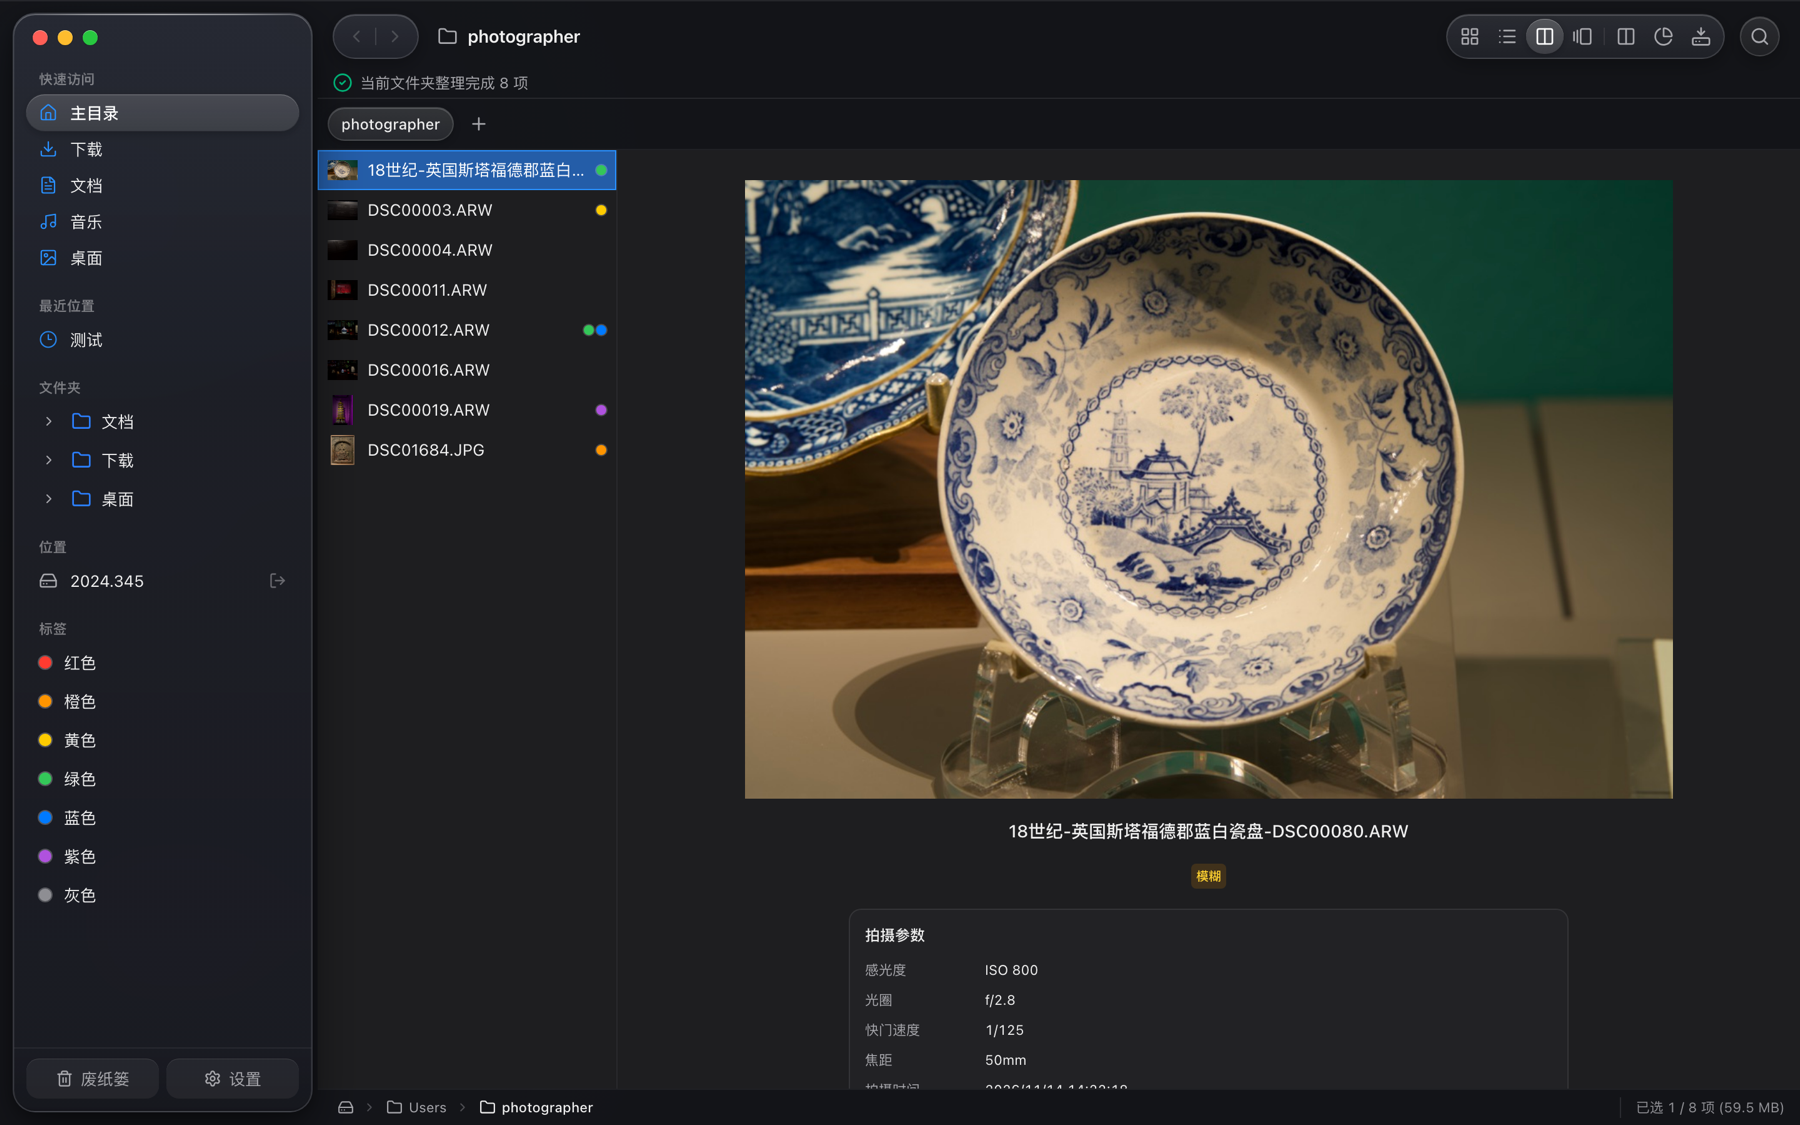
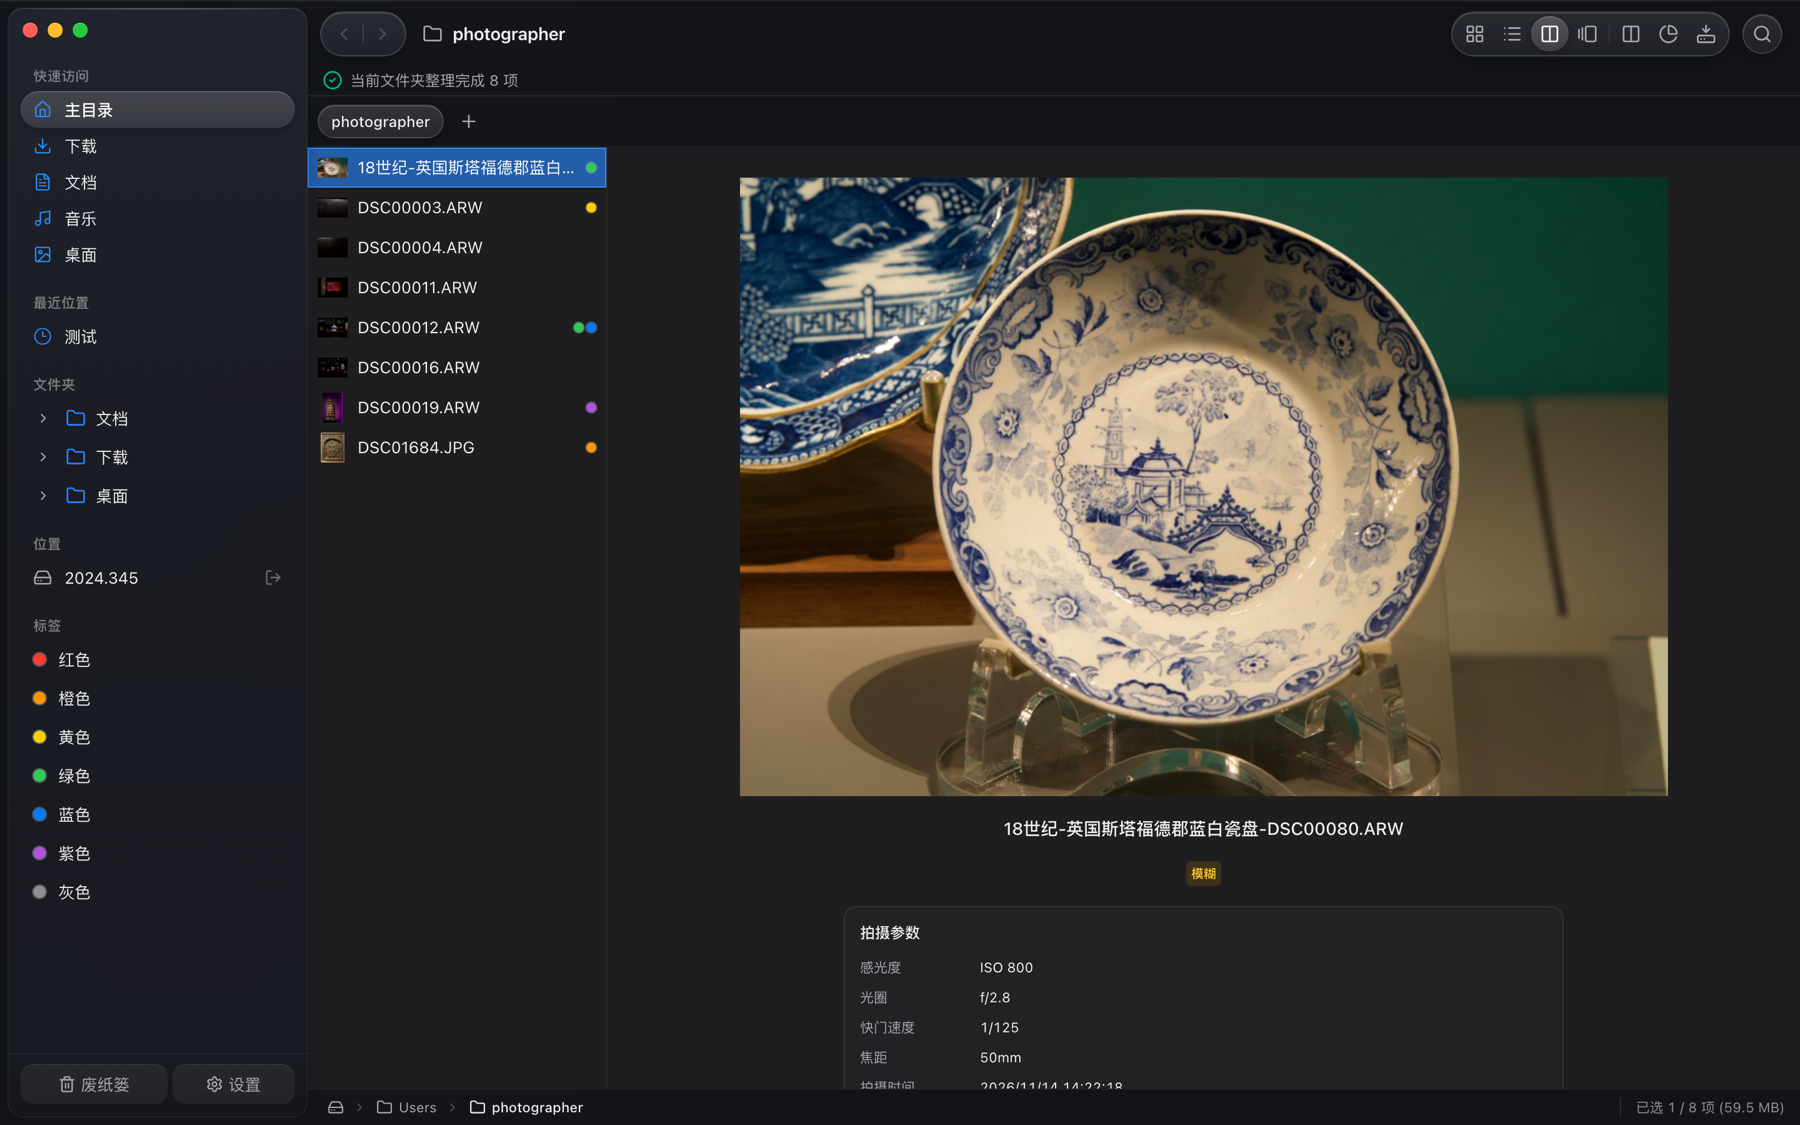
fix(ui): inset macOS traffic lights inside sidebar, soften glass border, and prevent footer text truncation

diff --git a/src/styles/finder.css b/src/styles/finder.css
@@ -95,10 +95,10 @@ button:focus-visible,
 }
 .finder-traffic-region {
   position: absolute;
-  top: 10px;
-  left: 10px;
-  width: 84px;
-  height: 38px;
+  top: 6px;
+  left: 6px;
+  width: 88px;
+  height: 42px;
   z-index: 60;
 }
 .finder-workspace {
@@ -109,59 +109,53 @@ button:focus-visible,
 }
 .finder-sidebar {
   position: relative;
-  margin: 10px 4px 10px 10px;
-  height: calc(100% - 20px);
-  border-radius: 18px;
+  margin: 6px 0 6px 6px;
+  height: calc(100% - 12px);
+  border-radius: 12px;
   overflow: hidden;
   background: linear-gradient(
     180deg,
-    rgb(255 255 255 / 82%) 0%,
-    rgb(246 248 252 / 72%) 55%,
-    rgb(241 244 250 / 78%) 100%
+    rgb(255 255 255 / 78%) 0%,
+    rgb(246 248 252 / 68%) 55%,
+    rgb(241 244 250 / 74%) 100%
   );
-  border: 1px solid rgb(15 23 42 / 7.5%);
+  border: 0.5px solid rgb(15 23 42 / 7%);
   box-shadow:
-    inset 0 1px 0 rgb(255 255 255 / 98%),
-    inset 0 0 0 0.5px rgb(255 255 255 / 80%),
-    inset 0 -1px 0 rgb(15 23 42 / 5%),
-    0 12px 32px rgb(15 23 42 / 10%),
-    0 2px 6px rgb(15 23 42 / 5%);
-  -webkit-backdrop-filter: blur(44px) saturate(1.9);
-  backdrop-filter: blur(44px) saturate(1.9);
+    inset 0 0.5px 0 rgb(255 255 255 / 92%),
+    0 2px 10px rgb(15 23 42 / 6%);
+  -webkit-backdrop-filter: blur(40px) saturate(1.85);
+  backdrop-filter: blur(40px) saturate(1.85);
 }
 .dark .finder-sidebar {
   background: linear-gradient(
     180deg,
-    rgb(58 60 68 / 50%) 0%,
-    rgb(36 37 43 / 58%) 34%,
-    rgb(28 29 35 / 66%) 100%
+    rgb(46 48 54 / 52%) 0%,
+    rgb(32 33 38 / 58%) 40%,
+    rgb(27 28 33 / 64%) 100%
   );
-  border: 1px solid rgb(255 255 255 / 13%);
+  border: 0.5px solid rgb(255 255 255 / 7.5%);
   box-shadow:
-    inset 0 1px 0 rgb(255 255 255 / 24%),
-    inset 0 0 0 0.5px rgb(255 255 255 / 6%),
-    inset 0 -1px 0 rgb(0 0 0 / 28%),
-    0 16px 40px rgb(0 0 0 / 46%),
-    0 2px 10px rgb(0 0 0 / 26%);
-  -webkit-backdrop-filter: blur(48px) saturate(1.95) brightness(1.06);
-  backdrop-filter: blur(48px) saturate(1.95) brightness(1.06);
+    inset 0 0.5px 0 rgb(255 255 255 / 14%),
+    0 2px 12px rgb(0 0 0 / 22%);
+  -webkit-backdrop-filter: blur(44px) saturate(1.9) brightness(1.04);
+  backdrop-filter: blur(44px) saturate(1.9) brightness(1.04);
 }
-/* Signature Liquid Glass top specular light refraction rim */
+/* Subtle Liquid Glass top specular light refraction rim */
 .finder-sidebar::before {
   content: "";
   position: absolute;
   top: 0;
-  left: 14px;
-  right: 14px;
+  left: 12px;
+  right: 12px;
   height: 1px;
   pointer-events: none;
   z-index: 20;
   background: linear-gradient(
     90deg,
     transparent,
-    rgb(255 255 255 / 95%) 25%,
-    rgb(255 255 255 / 100%) 50%,
-    rgb(255 255 255 / 95%) 75%,
+    rgb(255 255 255 / 75%) 25%,
+    rgb(255 255 255 / 88%) 50%,
+    rgb(255 255 255 / 75%) 75%,
     transparent
   );
 }
@@ -169,14 +163,14 @@ button:focus-visible,
   background: linear-gradient(
     90deg,
     transparent,
-    rgb(255 255 255 / 32%) 22%,
-    rgb(255 255 255 / 46%) 50%,
-    rgb(255 255 255 / 32%) 78%,
+    rgb(255 255 255 / 12%) 22%,
+    rgb(255 255 255 / 20%) 50%,
+    rgb(255 255 255 / 12%) 78%,
     transparent
   );
 }
 .finder-sidebar-header {
-  height: 40px;
+  height: 42px;
   flex-shrink: 0;
   position: relative;
   z-index: 10;
@@ -306,9 +300,9 @@ button:focus-visible,
   padding-left: 88px;
 }
 .finder-toolbar {
-  height: 54px;
-  gap: 12px;
-  padding: 4px 16px 0 12px;
+  height: 52px;
+  gap: 10px;
+  padding: 2px 14px 0 10px;
   background: transparent;
   box-shadow: none;
 }

diff --git a/src/components/Sidebar/index.tsx b/src/components/Sidebar/index.tsx
@@ -878,9 +878,9 @@ export function Sidebar({ onNavigate, currentPath }: SidebarProps) {
 
       {/* 底部液态玻璃功能坞：废纸篓 & 设置 */}
       <div className="finder-sidebar-footer shrink-0">
-        <div className="grid grid-cols-2 gap-1.5">
+        <div className="grid grid-cols-[1.2fr_1fr] gap-1">
           <button
-            className="finder-sidebar-footer-btn text-muted-foreground hover:text-foreground flex h-8 items-center justify-center gap-1.5 px-2 text-xs font-medium"
+            className="finder-sidebar-footer-btn text-muted-foreground hover:text-foreground flex h-8 min-w-0 items-center justify-center gap-1 px-1.5 text-[11.5px] font-medium whitespace-nowrap"
             onClick={() => setTrashOpen(true)}
             aria-label={t("trash.title")}
           >
@@ -888,7 +888,7 @@ export function Sidebar({ onNavigate, currentPath }: SidebarProps) {
             <span className="truncate">{t("trash.title")}</span>
           </button>
           <button
-            className="finder-sidebar-footer-btn text-muted-foreground hover:text-foreground flex h-8 items-center justify-center gap-1.5 px-2 text-xs font-medium"
+            className="finder-sidebar-footer-btn text-muted-foreground hover:text-foreground flex h-8 min-w-0 items-center justify-center gap-1 px-1.5 text-[11.5px] font-medium whitespace-nowrap"
             onClick={(e) => {
               e.stopPropagation();
               setIsSettingsOpen(true);

diff --git a/src/lib/windowManager.ts b/src/lib/windowManager.ts
@@ -3,6 +3,7 @@ import {
   getAllWebviewWindows,
   getCurrentWebviewWindow,
 } from "@tauri-apps/api/webviewWindow";
+import { LogicalPosition } from "@tauri-apps/api/dpi";
 import { emit, listen, UnlistenFn } from "@tauri-apps/api/event";
 import { nanoid } from "nanoid";
 import type { Tab } from "@/types/tab";
@@ -138,6 +139,7 @@ class WindowManager {
       y: options?.y,
       transparent: true,
       titleBarStyle: "overlay",
+      trafficLightPosition: new LogicalPosition(18, 24),
       hiddenTitle: true,
       // Keep HTML5 drag/drop available in dynamically-created windows.
       dragDropEnabled: false,
